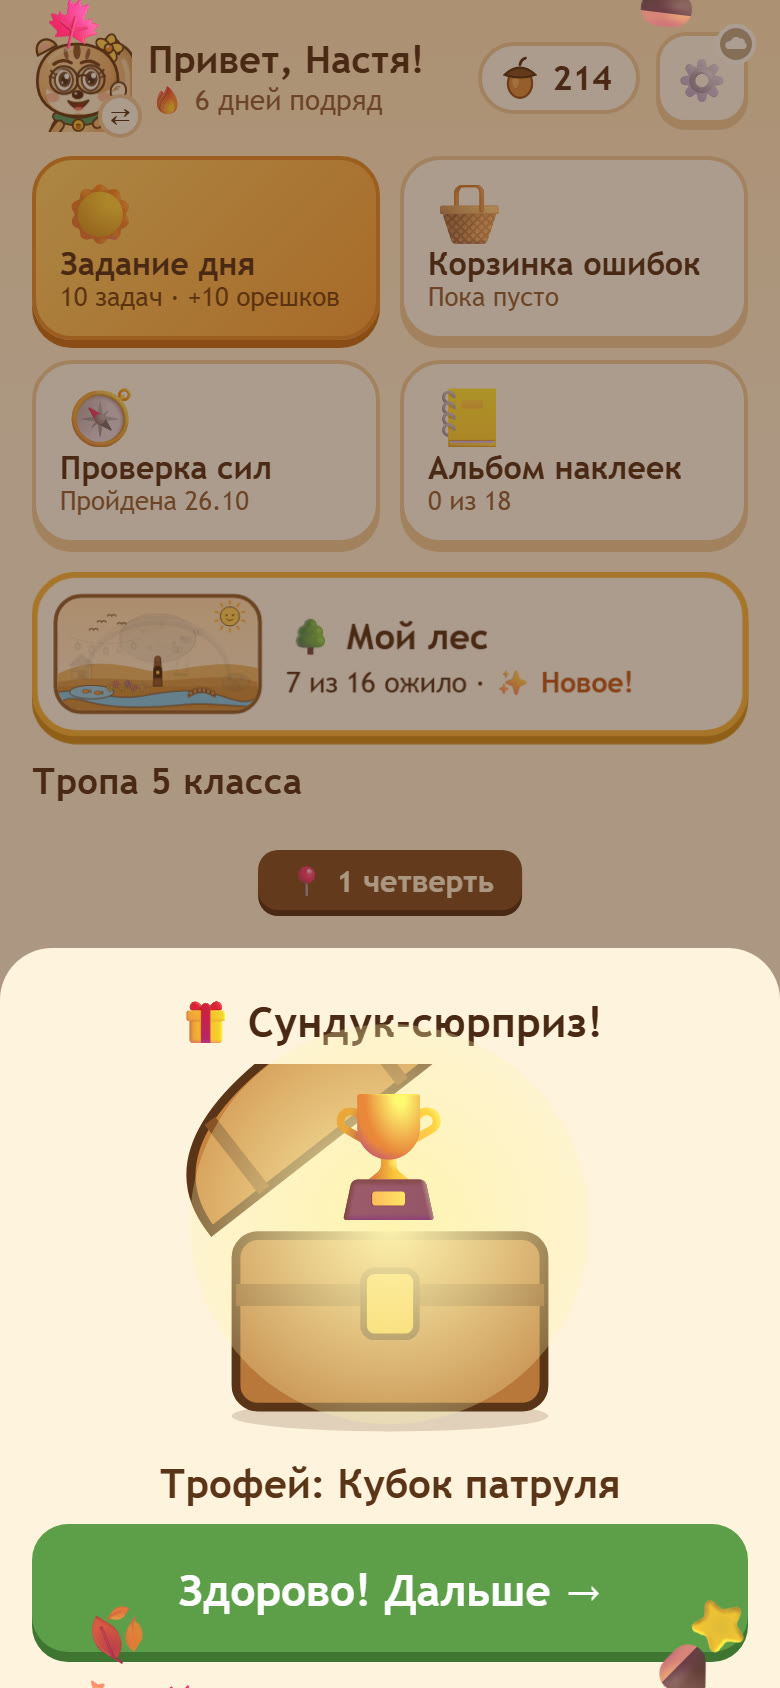
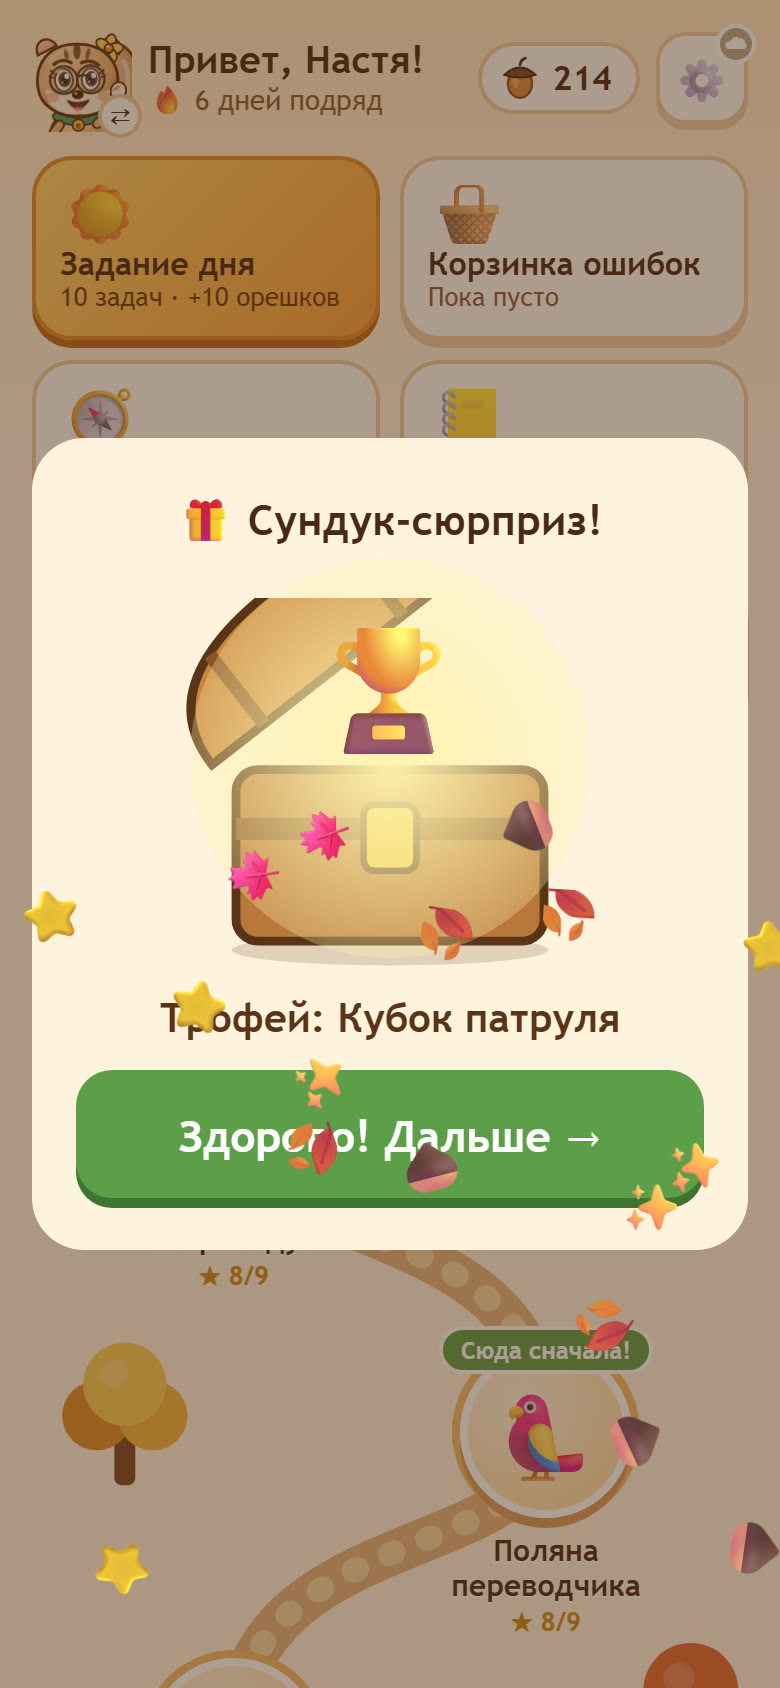
v4.2: облако не принимает сохранения от версий старше 4.2 (тест облака); окно сундука по центру экрана

diff --git a/dev/test-merge.html b/dev/test-merge.html
@@ -369,7 +369,8 @@ for (let run = 0; run < 400; run++) {
 /* ---------- Облако: та же логика, что в облачной функции (нужен запущенный dev/kv_server.py) ---------- */
 async function serverTests() {
   const URL = 'http://127.0.0.1:8766';
-  const post = async b => { const r = await fetch(URL, { method: 'POST', body: JSON.stringify(b) }); return Object.assign({ status: r.status }, await r.json()); };
+  /* Сохранение отправляет версию игры, как js/cloud.js; ver: null — «старая игра без версии» */
+  const post = async b => { if (b.op === 'put' && !('ver' in b)) b.ver = APP_VER; if (b.ver === null) delete b.ver; const r = await fetch(URL, { method: 'POST', body: JSON.stringify(b) }); return Object.assign({ status: r.status }, await r.json()); };
   try { await post({ op: 'dev_wipe' }); } catch (e) { log.push('ПРОПУЩЕНО: облако на компьютере не запущено (python dev/kv_server.py)'); results.skip = 1; return; }
   const hex = () => Array.from(crypto.getRandomValues(new Uint8Array(32)), b => b.toString(16).padStart(2, '0')).join('');
   const key = hex(), doc = n => ({ v: 2, profiles: [{ id: 'p1', world: 'five' }], states: { p1: Object.assign(fresh(), { name: 'Тест', earned: n, acorns: n }) }, devices: {} });
@@ -388,6 +389,28 @@ async function serverTests() {
   await post({ op: 'put', key, doc: Object.assign(doc(41), { email: 'mama@example.com', phone: '+7' }) });
   r = await post({ op: 'get', key }); check('лишние поля (почта, телефон) не хранятся', !('email' in r.doc) && !('phone' in r.doc), Object.keys(r.doc));
   r = await post({ op: 'put', key: 'нет', doc: doc(1) }); check('ключ — только хэш кода', r.status === 400);
+  /* Защита от старых версий: сохранения от игр старше 4.2 облако не принимает */
+  {
+    const k2 = hex(), base = doc(100);
+    base.states.p1.forest = { seen: ['sun', 'birds'], read: [0], init: 1 }; base.states.p1.coll = ['st:five:1'];
+    r = await post({ op: 'put', key: k2, doc: base }); check('версия 4.2 сохраняет', r.status === 200, r);
+    const before = (await post({ op: 'get', key: k2 })).doc;
+    const oldDoc = clone(before); oldDoc.states.p1.earned = 130; delete oldDoc.states.p1.forest; delete oldDoc.states.p1.coll;
+    for (const v of [null, '4.1', '4.1.1', 'oreh-v4.1', '3.9', 'abc']) {
+      r = await post({ op: 'put', key: k2, doc: oldDoc, ver: v });
+      check('старая версия ' + v + ' — отказ «обновите игру»', r.status === 426 && r.err === 'old', r);
+    }
+    const after = (await post({ op: 'get', key: k2 })).doc;
+    check('после отказа в облаке ничего не изменилось (лес и сюрпризы на месте)', synced(after.states.p1) === synced(before.states.p1));
+    r = await post({ op: 'get', key: k2, _ip: '10.3.3.3' }); check('старая игра может читать (играет дальше)', r.status === 200 && !!r.doc);
+    for (const v of ['4.2', 'oreh-v4.2', '4.2.1', '4.10', '5.0']) check('версия ' + v + ' принимается', (await post({ op: 'put', key: k2, doc: before, ver: v })).status === 200);
+    /* Устройство обновили: его прогресс (заработанное без облака) сливается с облаком, новые поля не теряются */
+    const merged = mergeStates(before.states.p1, oldDoc.states.p1), up = clone(before); up.states.p1 = merged;
+    r = await post({ op: 'put', key: k2, doc: up }); const fin = (await post({ op: 'get', key: k2 })).doc.states.p1;
+    check('после обновления: прогресс устройства слился', r.status === 200 && fin.earned === 130 && fin.forest.seen.length === 2 && fin.coll.length === 1, fin);
+    const sw = await (await fetch('../sw.js', { cache: 'no-store' })).text();
+    check('APP_VER совпадает с VERSION в sw.js', sw.includes(`const VERSION = 'oreh-v${APP_VER}'`), APP_VER);
+  }
   /* Неверные коды: 10 в час с одного адреса */
   const ip = '10.0.' + (Math.random() * 250 | 0) + '.' + (Math.random() * 250 | 0), codes = [];
   for (let i = 0; i < 10; i++) codes.push((await post({ op: 'join', key: hex(), _ip: ip })).status);

diff --git a/js/cloud.js b/js/cloud.js
@@ -48,6 +48,7 @@ const Cloud = (() => {
       /* text/plain: браузер не шлёт предварительный запрос, меньше мест для сбоя */
       const r = await fetch(CLOUD_URL, { method: 'POST', headers: { 'Content-Type': 'text/plain' }, body: JSON.stringify(body), signal: ctl.signal });
       if (r.status === 429) { const e = new Error('limit'); e.limit = true; throw e; }
+      if (r.status === 426) { const e = new Error('old'); e.old = true; throw e; }   /* облако просит обновить игру */
       if (!r.ok) throw new Error('http ' + r.status);
       return await r.json();
     } finally { clearTimeout(t); }
@@ -115,11 +116,11 @@ const Cloud = (() => {
       const changed = absorb(res.doc);
       const doc = localDoc();
       const sent = dirty; dirty = false;
-      if (!res.doc || !sameData(doc, res.doc)) { try { await call({ op: 'put', key, doc }); } catch (e) { dirty = dirty || sent; throw e; } }
+      if (!res.doc || !sameData(doc, res.doc)) { try { await call({ op: 'put', key, doc, ver: APP_VER }); } catch (e) { dirty = dirty || sent; throw e; } }
       F.lastSync = Date.now(); saveFamily();
       setStatus('ok');
       if (changed) repaint();
-    } catch (e) { setStatus(e.limit ? 'limit' : navigator.onLine === false ? 'offline' : 'fail'); }
+    } catch (e) { setStatus(e.old ? 'old' : e.limit ? 'limit' : navigator.onLine === false ? 'offline' : 'fail'); }
     finally { busy = false; running = null; done(); if (again) { again = false; soon(); } }
   }
   /* После сохранения ждём 45 с: за игру это 1–2 записи в минуту, а не каждое нажатие (бесплатный объём бакета — 10 000 записей в месяц).
@@ -180,6 +181,7 @@ const Cloud = (() => {
     if (!CLOUD_URL) return { kind: 'none', text: 'Прогресс хранится только на этом устройстве' };
     if (!F.code) return { kind: 'none', text: '☁ Облако не подключено — нажмите, чтобы подключить' };
     if (status === 'offline' || (typeof navigator !== 'undefined' && navigator.onLine === false)) return { kind: 'wait', text: '⏳ Нет интернета — сохранится, когда появится' };
+    if (status === 'old') return { kind: 'fail', text: '⚠ Обновите игру — эта версия сохраняет только на устройстве' };
     if (status === 'limit') return { kind: 'fail', text: '⚠ Слишком много попыток — подождите час' };
     if (status === 'fail') return { kind: 'fail', text: '⚠ Не сохраняется — нажмите, чтобы повторить' };
     if (!F.lastSync) return { kind: 'wait', text: '⏳ Сохраняю…' };

diff --git a/js/state.js b/js/state.js
@@ -7,6 +7,9 @@ const FAMILY_KEY = 'orehpatrol_family_v2';
 const profKey = id => 'orehpatrol_p2_' + id;
 /* Порядок — как при выборе игрока: подготовка → 4 класс → 5 класс */
 const WORLDS = { kid: { title: 'Подготовка к 1 классу' }, four: { title: '4 класс' }, five: { title: '5 класс' } };
+/* Версия игры для облака: сохранения от версий старше 4.2 облако не принимает (server/index.py, MIN_VER).
+   Поднимать вместе с VERSION в sw.js — это проверяет dev/test-merge.html. */
+const APP_VER = '4.2';
 const dstr = d => `${d.getFullYear()}-${String(d.getMonth() + 1).padStart(2, '0')}-${String(d.getDate()).padStart(2, '0')}`;
 const today = () => dstr(new Date());
 function addDays(s, n) { const d = new Date(s + 'T12:00:00'); d.setDate(d.getDate() + n); return dstr(d); }

diff --git a/css/style.css b/css/style.css
@@ -784,3 +784,9 @@ span.coin { cursor: default; width: calc(var(--ki) * 1.05); height: calc(var(--k
 .avatar .wear.w-neck { bottom: -4px; font-size: 20px; }
 .stk.wbtn { font: inherit; cursor: pointer; border: 2px solid #E9C98F; }
 .stk.wbtn.on { border-color: var(--green); box-shadow: 0 3px 0 var(--green-d); }
+
+/* Окно сундука — по центру экрана (на планшете кнопка не у края) */
+.modal:has(.chest) { align-items: center; padding: 16px; }
+.modal:has(.chest) .sheet { border-radius: 26px; max-width: 480px; padding: 22px 22px 26px; }
+.chest .chbtn { margin-top: 6px; }
+.modal:has(.chest) .chbox { margin-top: 26px; }

diff --git a/server/index.py b/server/index.py
@@ -3,7 +3,9 @@
 Один документ на семью. Семейный код на сервер не приходит: игра присылает только его SHA-256 (key).
 Запрос: POST, тело JSON {op, key, ...}. Ответ: JSON {ok, ...}.
   get / join  {key}              -> {doc, ts}   (doc = null, если семьи нет: это считается неверным кодом)
-  put         {key, doc}         -> {ts}        (предыдущая версия хранится рядом; раз в день — копия в bak/)
+  put         {key, doc, ver}    -> {ts}        (предыдущая версия хранится рядом; раз в день — копия в bak/)
+                                 ver — версия игры (APP_VER в js/state.js). Старше MIN_VER — отказ 426 «обновите игру»:
+                                 старая игра не умеет сохранять новые поля и стёрла бы их у всей семьи. Сама она играет дальше без облака.
   backups     {key}              -> {list: [{id, ts}]}   копии за 30 дней и предыдущая версия
   backup      {key, id}          -> {doc, ts}
 
@@ -35,6 +37,15 @@ MAX_DOC = 600 * 1024          # байт; обычная семья — 20–60 
 LIMIT = 10                    # неверных кодов в час с одного адреса
 KEY = re.compile(r'^[0-9a-f]{64}$')
 BAK_ID = re.compile(r'^(\d{4}-\d{2}-\d{2}|prev)$')
+MIN_VER = (4, 2)              # с v4.2 в прогрессе лес, семейная миссия и сюрпризы — версии старше их теряют
+
+
+def ver_ok(v):
+    """'4.2', '4.10', 'oreh-v4.2.1' → сравнение по числам; нет версии — старая игра."""
+    nums = re.findall(r'\d+', str(v or ''))
+    return bool(nums) and tuple(int(x) for x in nums[:3]) >= MIN_VER
+
+
 MSK = dt.timezone(dt.timedelta(hours=3))
 
 
@@ -132,6 +143,8 @@ def handle(req, ip, store, now=None):
     path = f'fam/{key}.json'
 
     if op == 'put':
+        if not ver_ok(req.get('ver')):
+            return 426, {'ok': False, 'err': 'old', 'msg': 'Обновите игру'}
         doc = req.get('doc')
         if not isinstance(doc, dict) or doc.get('v') != 2:
             return 400, {'ok': False, 'err': 'doc'}
